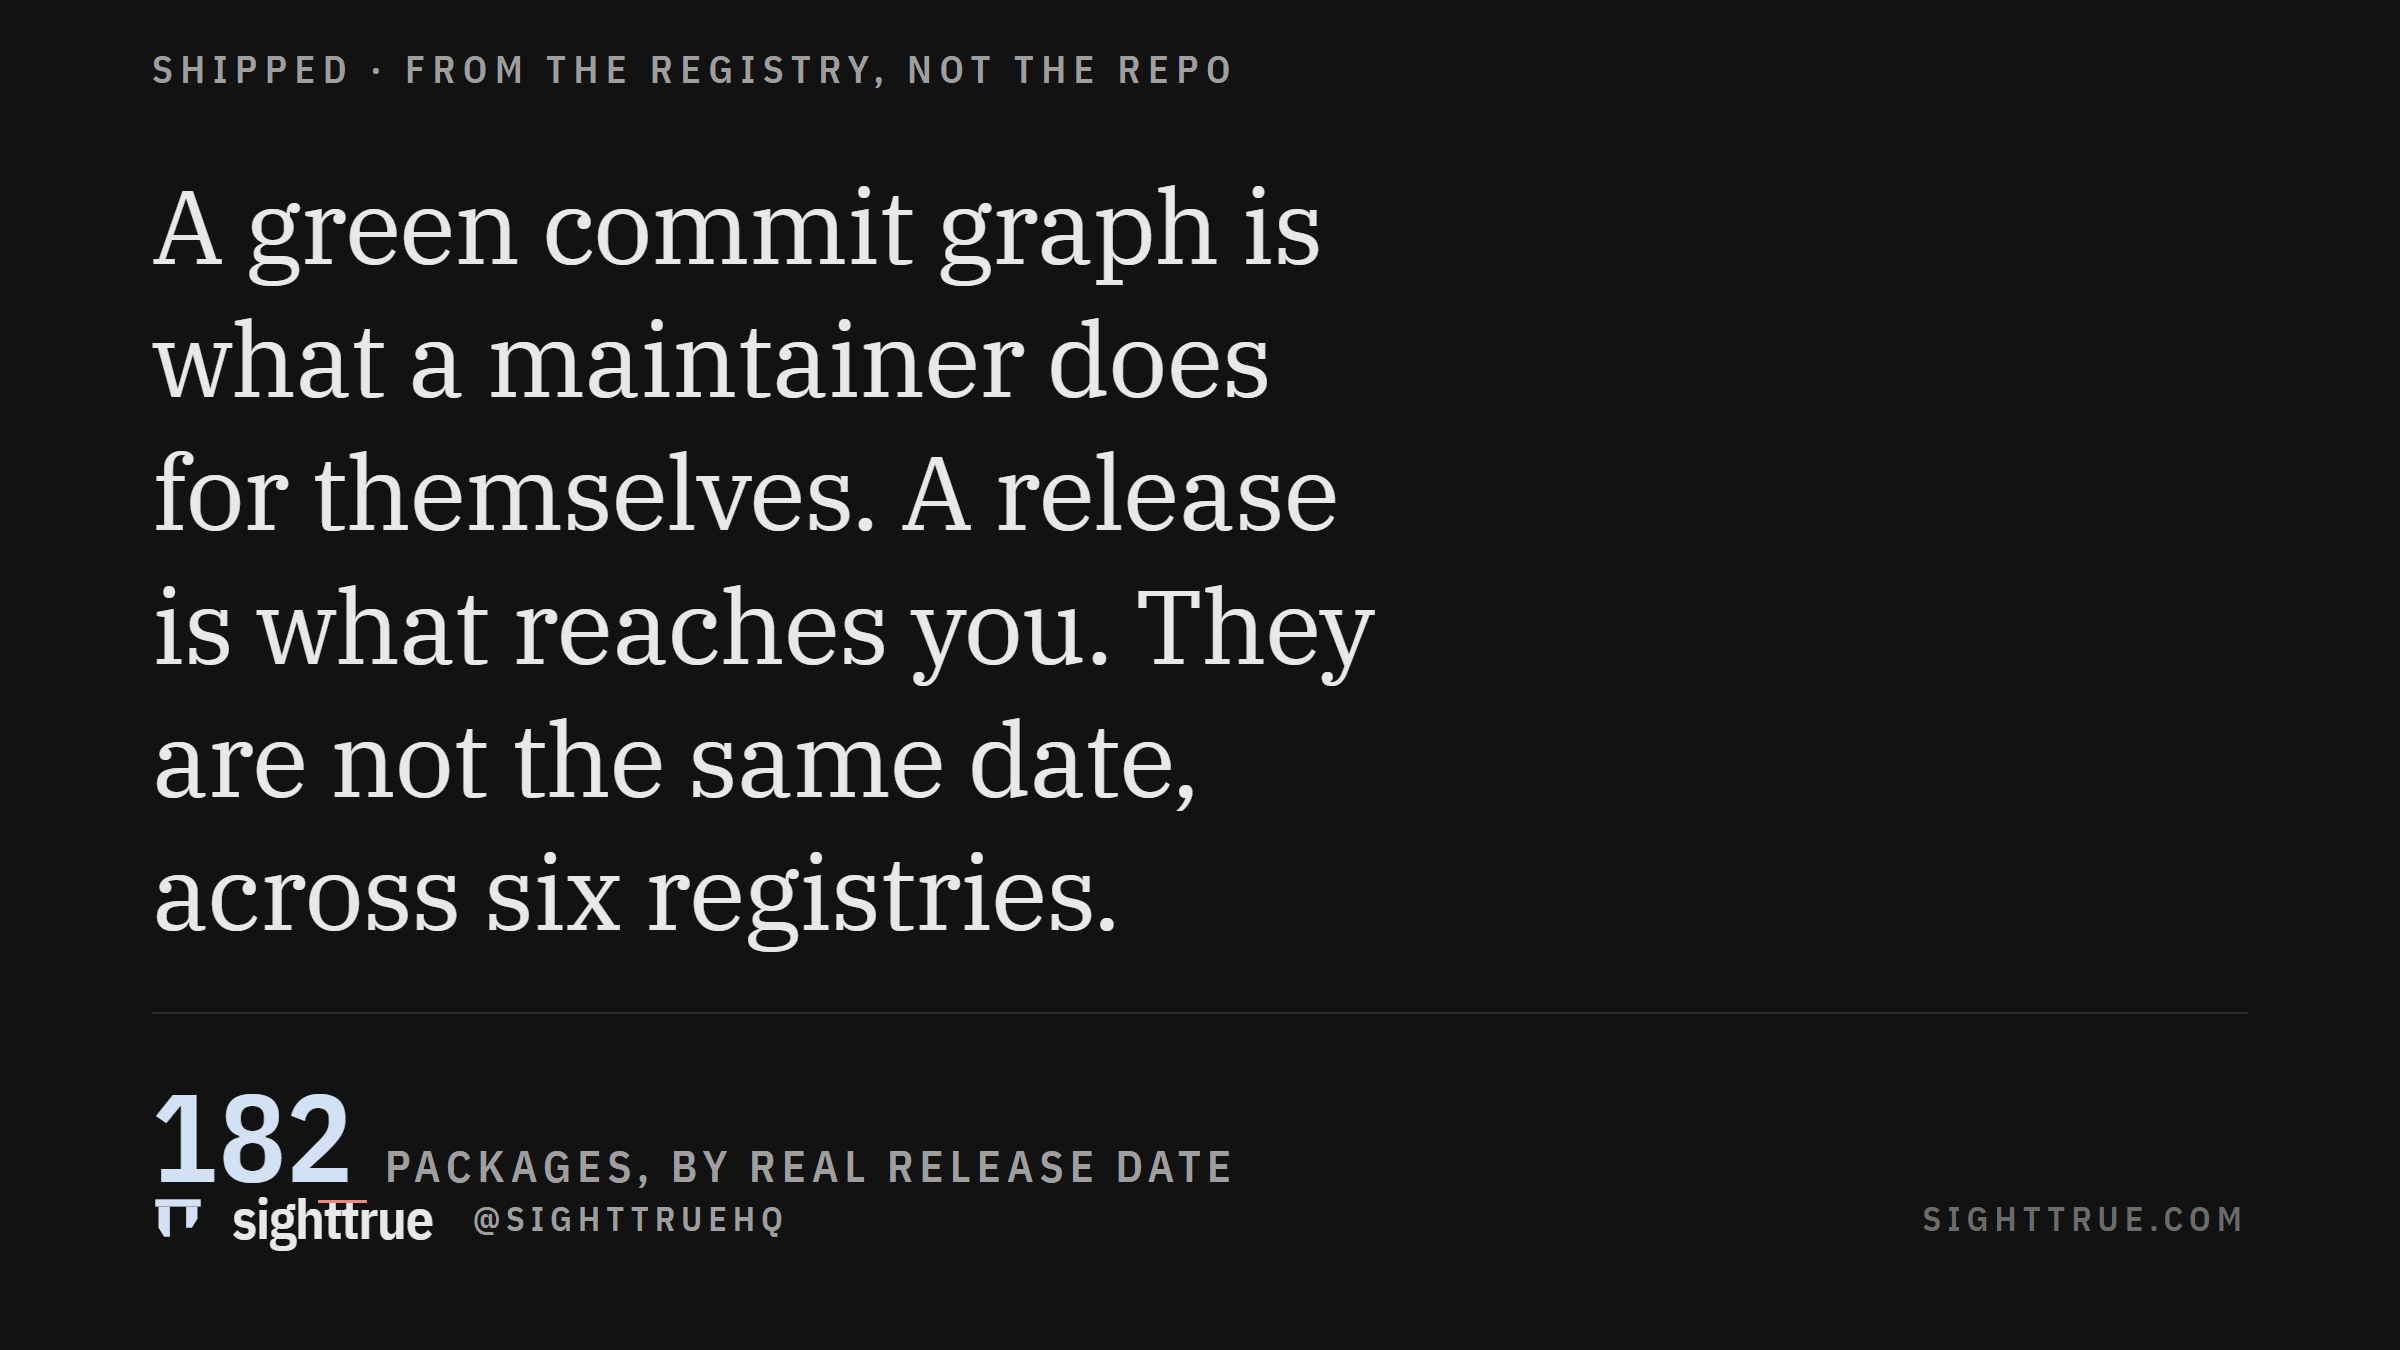
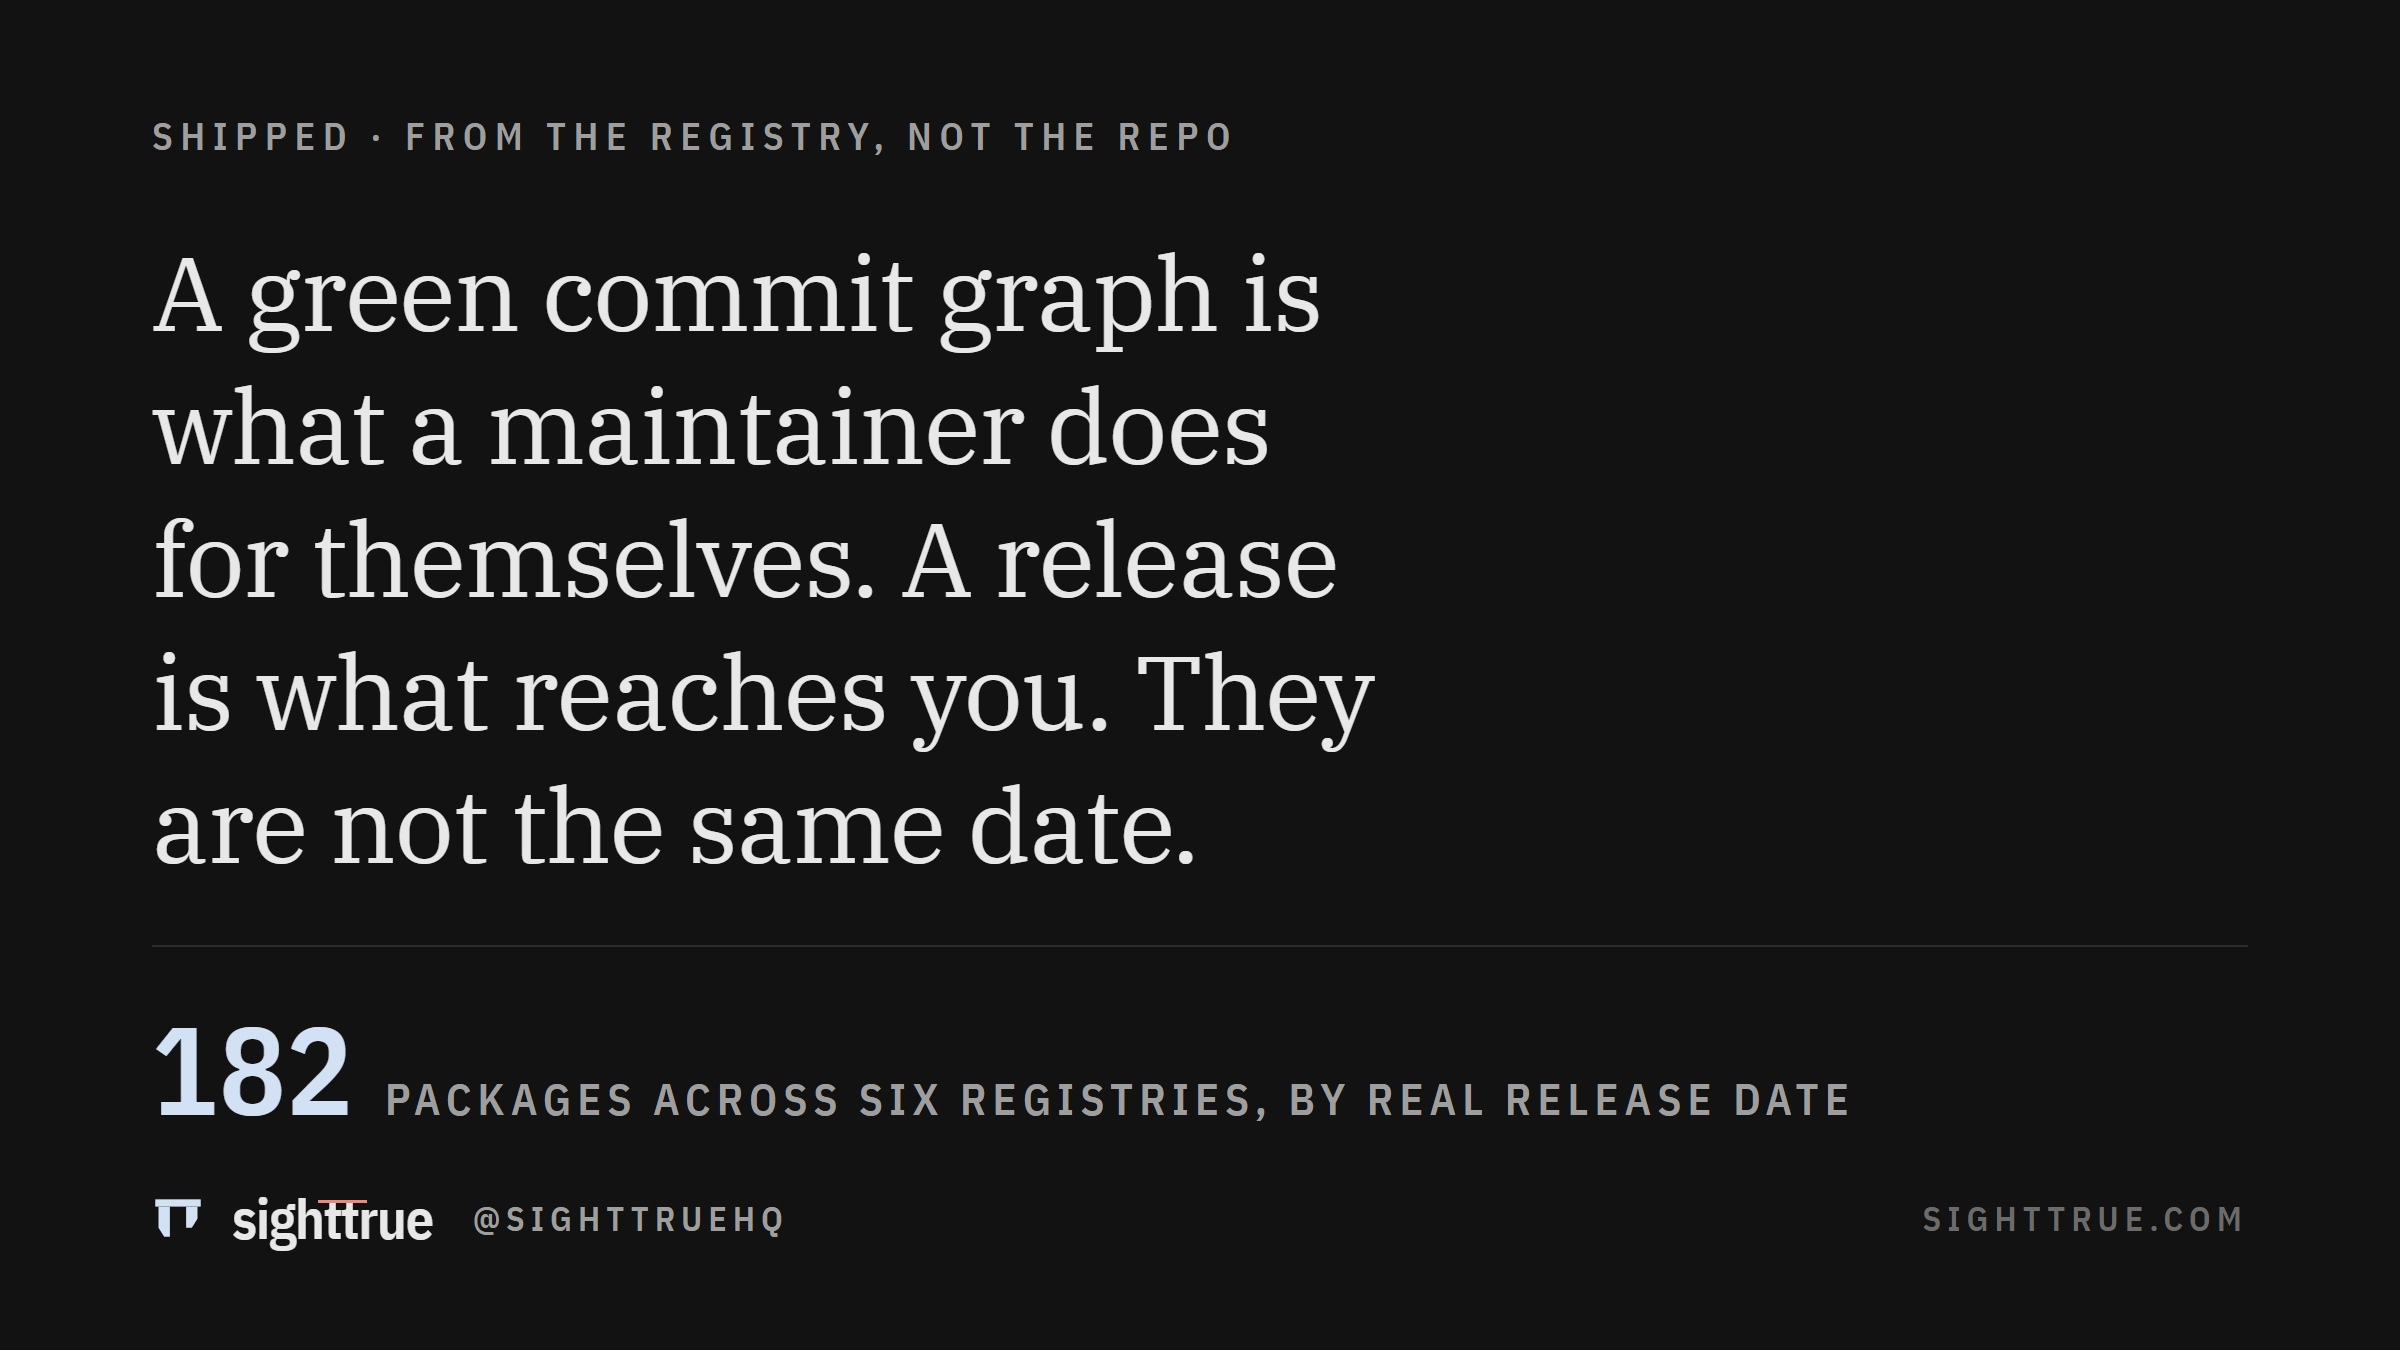
fix(brand): six registries belongs on the figure line, not in the sentence
Adding it to the sentence took that block to six lines, which drove the figure down until it sat against the wordmark. The card has room across and none down.

diff --git a/assets/brand/post-4-staleness.html b/assets/brand/post-4-staleness.html
@@ -69,9 +69,9 @@
 <body>
   <div class="frame">
     <span class="eyebrow">Shipped · from the registry, not the repo</span>
-    <p class="say">A green commit graph is what a maintainer does for themselves. A release is what reaches you. They are not the same date, across six registries.</p>
+    <p class="say">A green commit graph is what a maintainer does for themselves. A release is what reaches you. They are not the same date.</p>
     <div class="rule"></div>
-    <div class="proof"><b>182</b> <span>packages, by real release date</span></div>
+    <div class="proof"><b>182</b> <span>packages across six registries, by real release date</span></div>
   </div>
   <div class="foot">
     <span class="mark"><svg xmlns="http://www.w3.org/2000/svg" viewBox="0 0 64 64" width="26" height="26" role="img" aria-label="Sighttrue">
